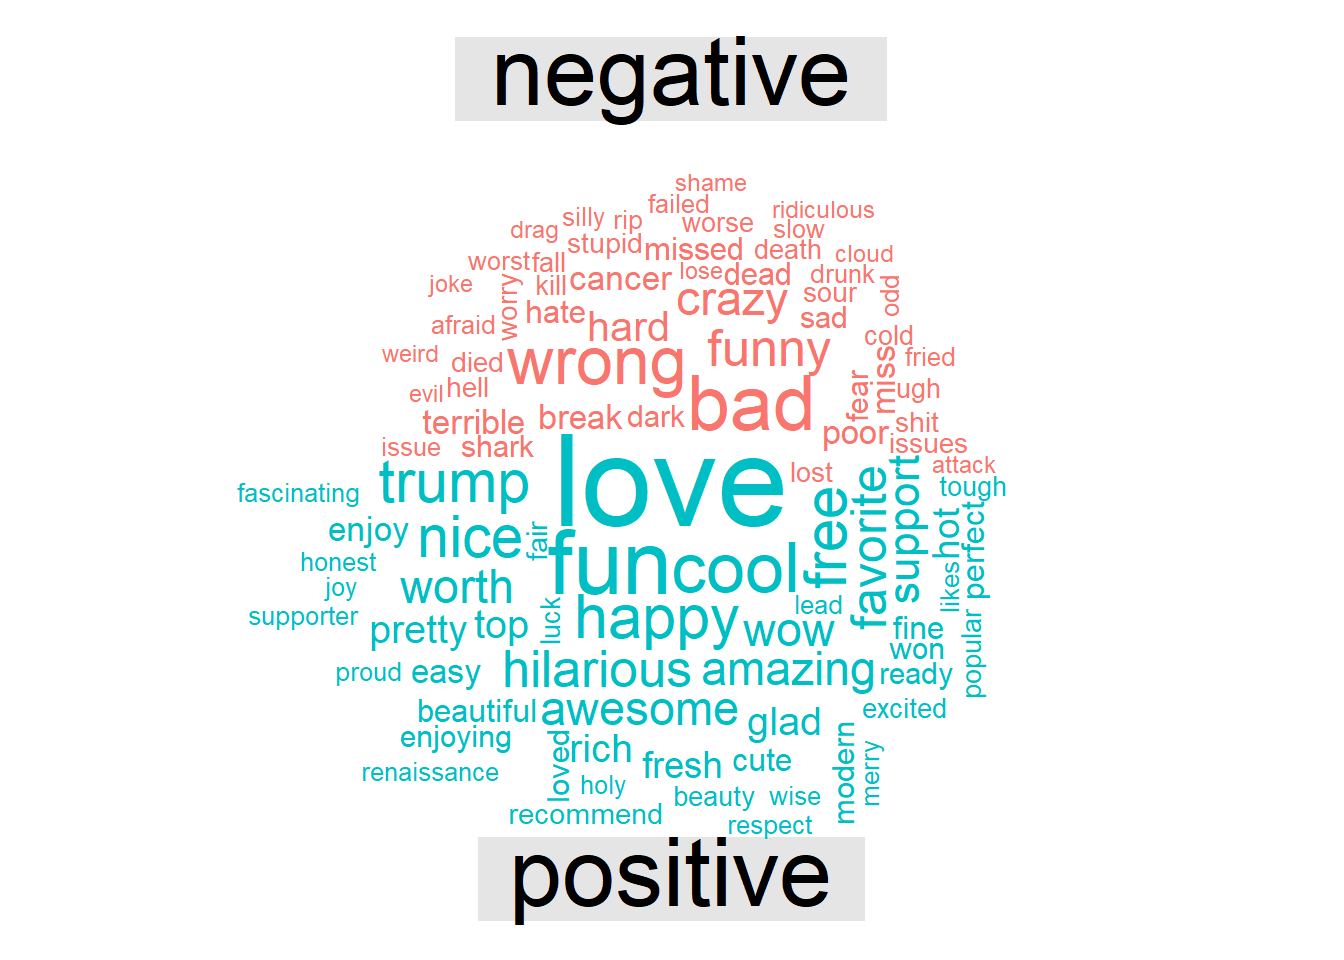
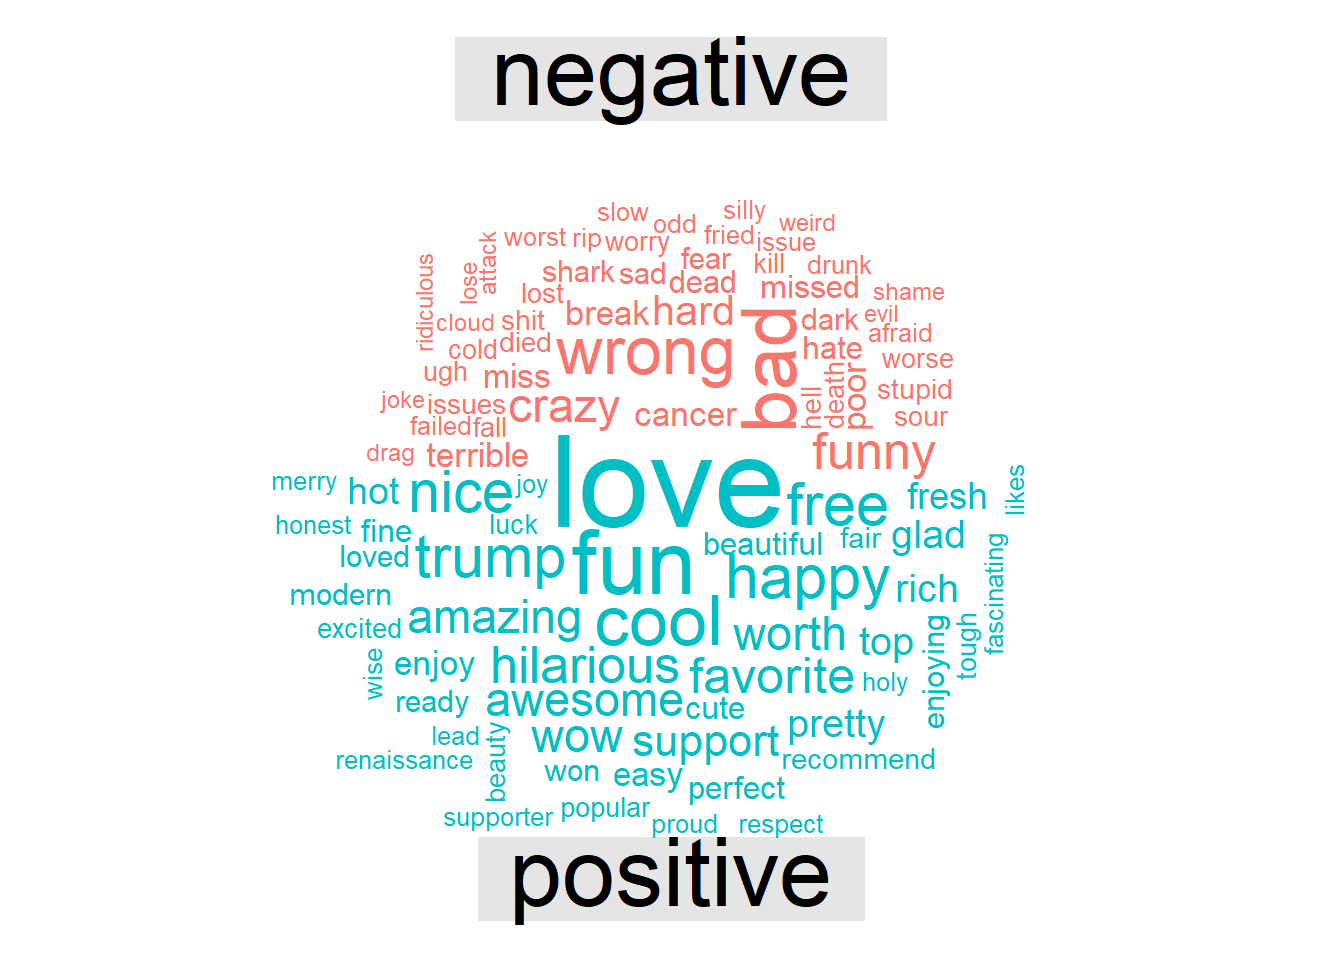
test political sentiment significance

Changed region(s): [[0.1562, 0.1875, 0.7812, 0.875]]

diff --git a/content/post/2017-11-25-summary-analysis-of-my-facebook-existance.html b/content/post/2017-11-25-summary-analysis-of-my-facebook-existance.html
@@ -328,140 +328,14 @@ sentiment_score</code></pre>
   inner_join(get_sentiments(&#39;afinn&#39;),by=&quot;word&quot;) %&gt;% 
   group_by(word,score) %&gt;% summarise(count=n())
 
-word_scores %&gt;% 
-        arrange((score)) %&gt;% 
-        ungroup() %&gt;% 
-        .[1:10,] %&gt;% 
-        kable() %&gt;% 
-  kable_styling(bootstrap_options = &quot;striped&quot;, full_width = FALSE, position=&#39;left&#39;)</code></pre>
-<table class="table table-striped" style="width: auto !important; ">
-<thead>
-<tr>
-<th style="text-align:left;">
-word
-</th>
-<th style="text-align:right;">
-score
-</th>
-<th style="text-align:right;">
-count
-</th>
-</tr>
-</thead>
-<tbody>
-<tr>
-<td style="text-align:left;">
-bastard
-</td>
-<td style="text-align:right;">
--5
-</td>
-<td style="text-align:right;">
-2
-</td>
-</tr>
-<tr>
-<td style="text-align:left;">
-bastards
-</td>
-<td style="text-align:right;">
--5
-</td>
-<td style="text-align:right;">
-2
-</td>
-</tr>
-<tr>
-<td style="text-align:left;">
-slut
-</td>
-<td style="text-align:right;">
--5
-</td>
-<td style="text-align:right;">
-1
-</td>
-</tr>
-<tr>
-<td style="text-align:left;">
-ass
-</td>
-<td style="text-align:right;">
--4
-</td>
-<td style="text-align:right;">
-4
-</td>
-</tr>
-<tr>
-<td style="text-align:left;">
-damn
-</td>
-<td style="text-align:right;">
--4
-</td>
-<td style="text-align:right;">
-2
-</td>
-</tr>
-<tr>
-<td style="text-align:left;">
-dick
-</td>
-<td style="text-align:right;">
--4
-</td>
-<td style="text-align:right;">
-2
-</td>
-</tr>
-<tr>
-<td style="text-align:left;">
-fuck
-</td>
-<td style="text-align:right;">
--4
-</td>
-<td style="text-align:right;">
-2
-</td>
-</tr>
-<tr>
-<td style="text-align:left;">
-fucked
-</td>
-<td style="text-align:right;">
--4
-</td>
-<td style="text-align:right;">
-1
-</td>
-</tr>
-<tr>
-<td style="text-align:left;">
-fuckers
-</td>
-<td style="text-align:right;">
--4
-</td>
-<td style="text-align:right;">
-1
-</td>
-</tr>
-<tr>
-<td style="text-align:left;">
-fucking
-</td>
-<td style="text-align:right;">
--4
-</td>
-<td style="text-align:right;">
-3
-</td>
-</tr>
-</tbody>
-</table>
-<p>Ohh, that is harsh. I am cringing right now. Did I say those things? Yes, well not often, at least. As I mentioned above, the limitation of this analysis is that it lacks context. For instance, did I call someone a slut? I was briefly horrified when I saw that word. Here is the word in context from 2014: “Less slut-shaming and more perp-jailing.”</p>
+# word_scores %&gt;% 
+#         arrange((score)) %&gt;% 
+#         ungroup() %&gt;% 
+#         .[1:10,] %&gt;% 
+#         kable() %&gt;% 
+#   kable_styling(bootstrap_options = &quot;striped&quot;, full_width = FALSE, position=&#39;left&#39;)</code></pre>
+<p>This is a family blog so I comment out the code that displays the worst words. Suffice it to say, they are the usual curse words and forms thereof. I am cringing right now. Did I say those things? Yes, well not often, at least, once or twice is typical for each.</p>
+<p>As I mentioned above, the limitation of this analysis is that it lacks context. For instance, did I call someone a slut? I was briefly horrified when I saw that word. Here is the word in context from 2014: “Less slut-shaming and more perp-jailing.”</p>
 <p>All these negative words carry more power for me, an old-geezer, than for kids today (kids today!) who let f-bombs roll off their tongues with uncomfortable (to me) ease. Get off my lawn!</p>
 <p>What were my postive words?</p>
 <pre class="r"><code>word_scores %&gt;% arrange(desc(score)) %&gt;% 
@@ -927,7 +801,6 @@ pol_sentiment</code></pre>
 ## 7      Trump  0.17073171         82
 ## 8      Obama -0.11224490         98</code></pre>
 <p>First off, Palin and McCain don’t appear in this list beacuse I apparently didn’t use any words from the “afinn” lexicon in my posts mentioning them. Second, Romney is only mentioned in four posts so I don’t think we have a valid sample size.</p>
-<p>I don’t recall being so positive about Trump. Does it have to do with the positive sentiment for “trump” we saw in the word cloud above? No. When we examine the “afinn” lexicon used in this section “trump” doesn’t appear.</p>
 <p>Taking what’s left, let’s view a chart.</p>
 <pre class="r"><code>pol_sentiment %&gt;% filter(Politician != &quot;Romney&quot;) %&gt;% 
   ggplot(aes(x=reorder(Politician,opinion),y=opinion))+geom_col()+
@@ -938,6 +811,39 @@ pol_sentiment</code></pre>
   ggplot(aes(x=reorder(Politician,opinion),y=opinion))+geom_col()+
   coord_flip()+labs(y=&quot;Sentiment&quot;,x=&quot;&quot;)+ylim(c(-5,5))</code></pre>
 <p><img src="/post/2017-11-25-summary-analysis-of-my-facebook-existance_files/figure-html/unnamed-chunk-28-1.png" width="672" /></p>
+<p>Let’s subject this to a test of signifcance. The “null hypothesis” we want to test is that the mean sentiment score expressed for “Hillary” is not statistically different from the “Trump” score. We duplicate some of the code run above, not for efficiency, but for clarity.</p>
+<pre class="r"><code>trump_opinion&lt;- cleaned_post_words %&gt;% 
+    filter(word == &#39;trump&#39;) %&gt;%
+    select(date) %&gt;% 
+    unique() %&gt;% 
+    inner_join(cleaned_post_words,by=&#39;date&#39;) %&gt;%
+    select(word) %&gt;% 
+    inner_join(get_sentiments(&#39;afinn&#39;),by=&quot;word&quot;) %&gt;% 
+    pull(score)
+
+hillary_opinion&lt;- cleaned_post_words %&gt;% 
+    filter(word == &#39;hillary&#39;) %&gt;%
+    select(date) %&gt;% 
+    unique() %&gt;% 
+    inner_join(cleaned_post_words,by=&#39;date&#39;) %&gt;%
+    select(word) %&gt;% 
+    inner_join(get_sentiments(&#39;afinn&#39;),by=&quot;word&quot;) %&gt;% 
+    pull(score)
+
+
+t.test(trump_opinion,hillary_opinion)</code></pre>
+<pre><code>## 
+##  Welch Two Sample t-test
+## 
+## data:  trump_opinion and hillary_opinion
+## t = 0.46581, df = 170.76, p-value = 0.6419
+## alternative hypothesis: true difference in means is not equal to 0
+## 95 percent confidence interval:
+##  -0.5179631  0.8379211
+## sample estimates:
+##  mean of x  mean of y 
+## 0.17073171 0.01075269</code></pre>
+<p>Like before, we can’t reject our hypothesis, I liked Donald Trump as much as I liked Hillary Clinton or, rather, you can’t prove a thing!</p>
 <p>This analysis shows I didn’t really express strong opinions. It was deliberate. During the election things got pretty heated, as you may recall. I have Facebook friends on all sides of the the political divides. Out of respect, I tried very hard not to trash anybody’s candidate and instead tried to accentuate the positive.</p>
 </div>
 <div id="bonus-friend-analysis" class="section level1">
@@ -992,7 +898,7 @@ for (node in 1:length(list_nodes)){
 gg&lt;-friend_table2 %&gt;% ggplot(aes(x=as.Date(yearquarter),fill=Category))+ geom_bar(width=70)
 gg&lt;-gg +labs(title=&quot;Facebook Friending Activity&quot;,y=&quot;Count&quot;,x=&quot;Quarterly&quot;)
 gg</code></pre>
-<p><img src="/post/2017-11-25-summary-analysis-of-my-facebook-existance_files/figure-html/unnamed-chunk-33-1.png" width="672" /></p>
+<p><img src="/post/2017-11-25-summary-analysis-of-my-facebook-existance_files/figure-html/unnamed-chunk-34-1.png" width="672" /></p>
 <p>Not too surprising. There was a lot of friending happening when I first joined Facebook. Perhaps a bit more curious is the recent renewed uptick in friending. There has been an influx of renewed high school aquaintances.</p>
 <p>Sometimes it is useful too look at the balance of opposites. For example, we can see the balance of the number of friendings vs. the number of delete friend requests by assigning a negative number to deletions. There is no simple way to do this with native dplyr functions, though there should be. Base R is actually better at transforming just certain elements in a column based on some condition. Fortunately, I found a super-useful bit of code on Stack Overflow, <code>mutate_cond()</code>, that does exactly what we need.</p>
 <pre class="r"><code>mutate_cond &lt;- function(.data, condition, ..., envir = parent.frame()) {
@@ -1021,7 +927,7 @@ gg&lt;-friend_table3 %&gt;%
 
 gg&lt;-gg +labs(title=&quot;Facebook Friending Activity&quot;,y=&quot;Count&quot;,x=&quot;Quarterly&quot;)
 gg</code></pre>
-<p><img src="/post/2017-11-25-summary-analysis-of-my-facebook-existance_files/figure-html/unnamed-chunk-34-1.png" width="672" /></p>
+<p><img src="/post/2017-11-25-summary-analysis-of-my-facebook-existance_files/figure-html/unnamed-chunk-35-1.png" width="672" /></p>
 <p>It seems that adding friends is associated with deleted requests. I’l surmise that when I show up in a new friend’s network that will spark some friend requests from their network. Some, maybe most, will be from people I don’t actually know and I will reject. There are spikes in rejections because I let them stack up before I notice them.</p>
 </div>
 <div id="wrapping-up" class="section level1">
